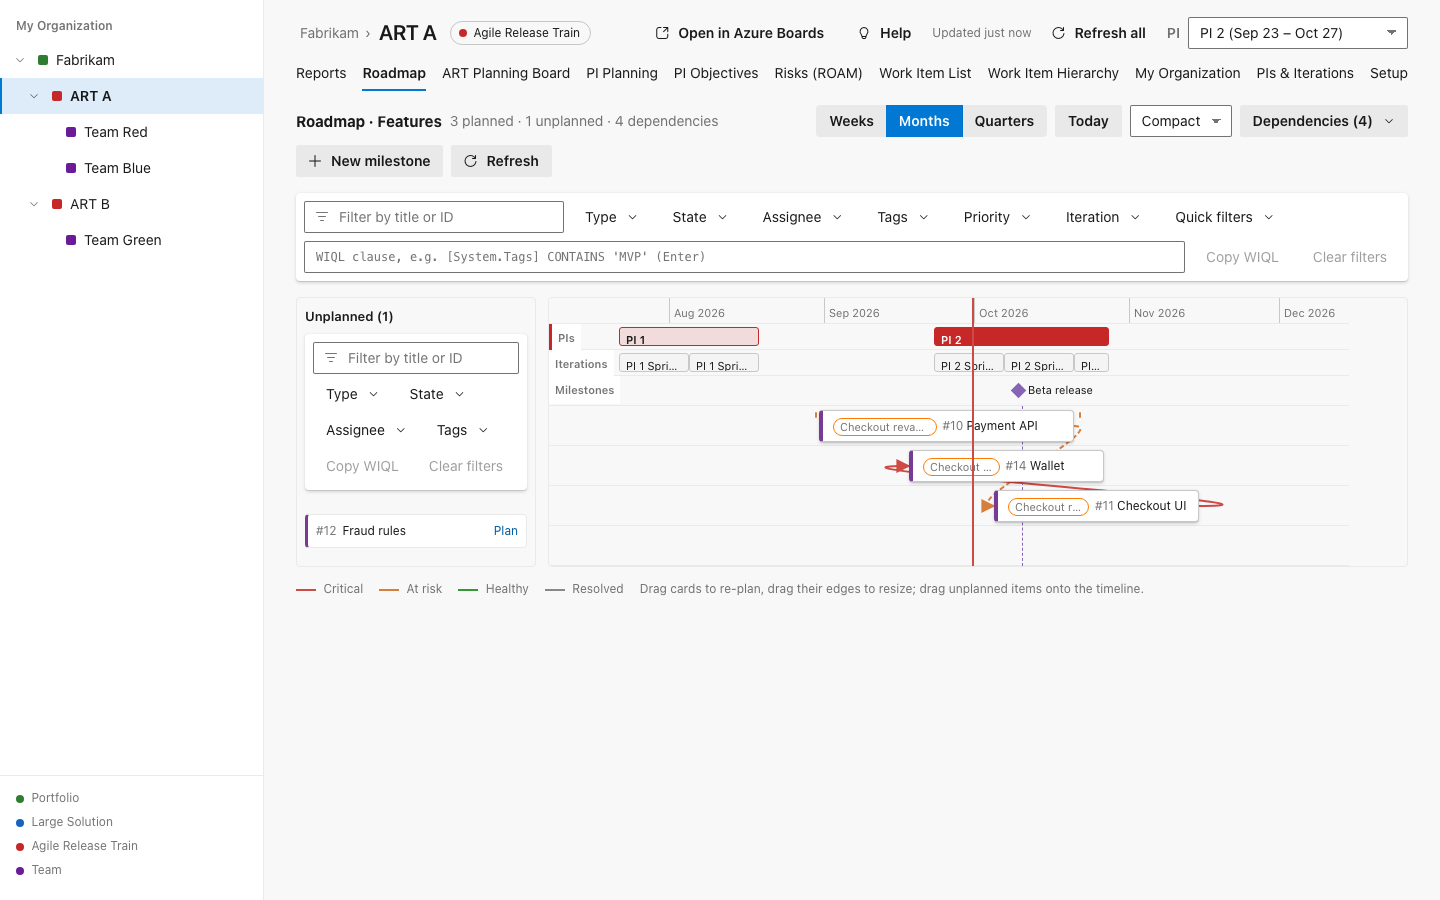
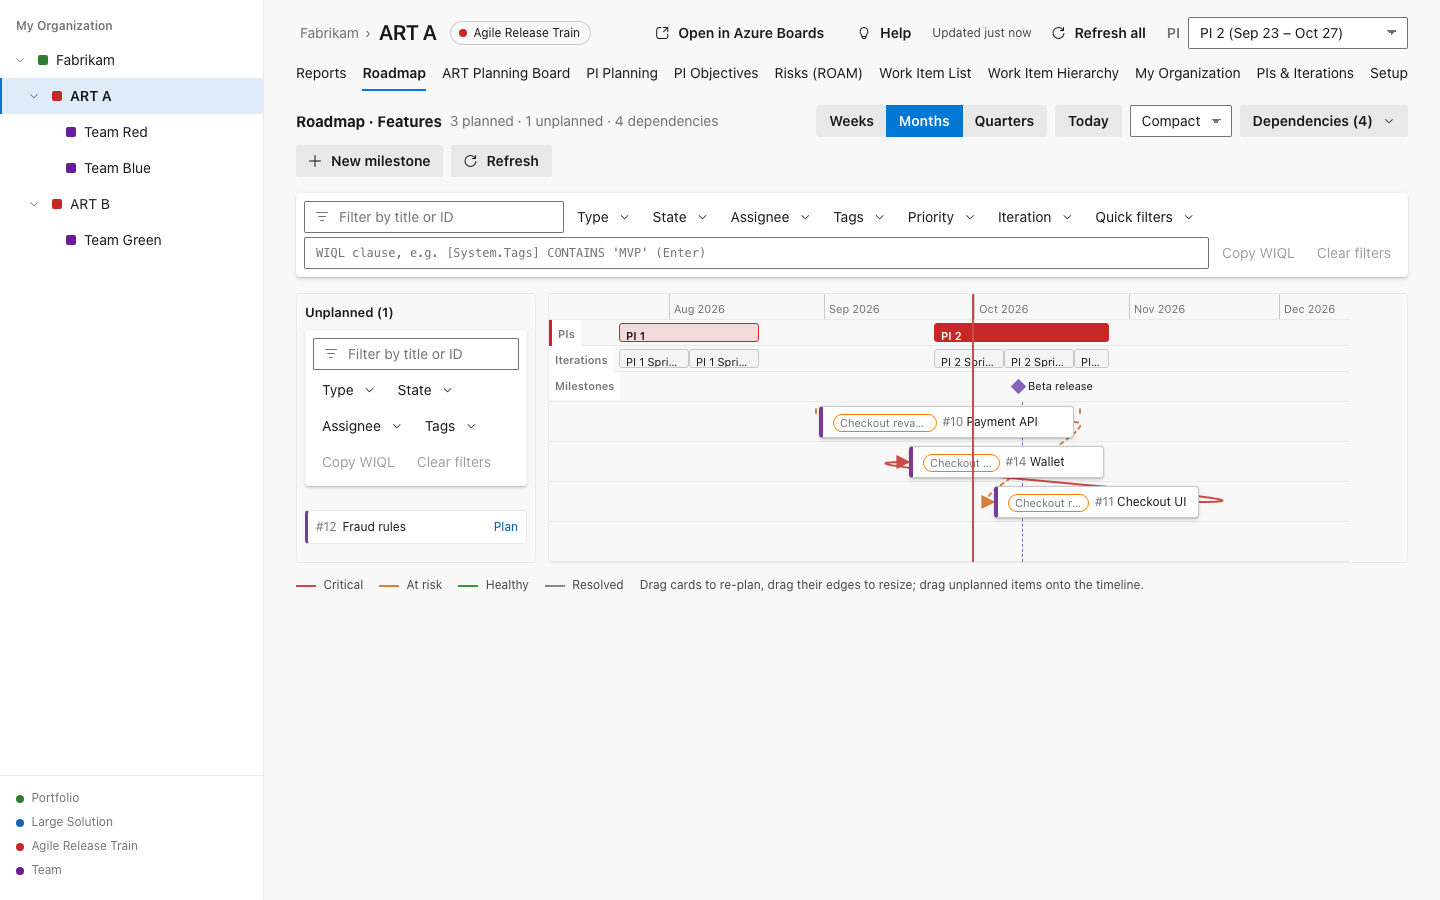
UI visibility pass: visible inline fields, readable risk tags, boards fit the PI
- Inline-edit inputs had transparent borders (Lean budgets and rates, plan review notes and
  objectives looked like plain text); they now show a quiet border.
- Exposure colours darkened to >= 4.5:1 with white text; chips read "Exposure: High" and the
  legacy field "Priority: High" so the two are no longer confused.
- Board grids share the width (min-width from the column count) instead of max-content, so the
  whole PI, IP iteration and external partners fit at 1440px.
- Cards render above dependency lines; progress labels readable; tighter filter bars; checklist
  and Create a PI padding fixes; singular "item"; refreshed Marketplace screenshots.

diff --git a/src/hub/styles.css b/src/hub/styles.css
@@ -199,7 +199,7 @@ table.grid { width: 100%; border-collapse: collapse; }
 .grid tbody tr:hover { background: var(--row-hover); }
 .grid tbody tr:last-child td { border-bottom: 0; }
 .grid.compact td { padding: 5px 12px; }
-.cell-input { width: 100%; border-color: transparent; background: transparent; }
+.cell-input { width: 100%; border-color: var(--border-strong); background: var(--bg); }
 .cell-input:hover:not(:disabled) { border-color: var(--text-2); }
 .cell-input:disabled { background: transparent; border-color: transparent; color: var(--text); }
 .cell-input.num { width: 72px; }
@@ -216,8 +216,9 @@ tr.uncommitted td:first-child input { font-style: italic; }
 .state { white-space: nowrap; display: inline-flex; align-items: center; }
 
 .progress { position: relative; height: 20px; background: var(--alpha-6); border-radius: 2px; overflow: hidden; min-width: 80px; }
-.progress-bar { position: absolute; inset: 0 auto 0 0; background: var(--good); opacity: 0.8; }
-.progress-text { position: relative; font-size: 12px; padding: 0 8px; line-height: 20px; white-space: nowrap; }
+.progress-bar { position: absolute; inset: 0 auto 0 0; background: var(--good); opacity: 0.4; }
+.progress-bar::after { content: ""; position: absolute; inset: auto 0 0 0; height: 3px; background: inherit; filter: saturate(1.4); }
+.progress-text { position: relative; font-size: 12px; font-weight: 600; padding: 0 8px; line-height: 20px; white-space: nowrap; }
 
 /* ---------- work item cards (boards) ---------- */
 .card {
@@ -237,7 +238,8 @@ tr.uncommitted td:first-child input { font-style: italic; }
 
 /* ---------- ART planning board ---------- */
 .board-scroll { overflow: auto; border-radius: var(--radius); background: var(--bg-callout); box-shadow: var(--shadow-8); }
-.board-grid { display: grid; position: relative; min-width: max-content; }
+/* Columns share the width (min-width set inline from the column count); the board scrolls only past that. */
+.board-grid { display: grid; position: relative; }
 .board-corner, .board-col-header { position: sticky; top: 0; z-index: 2; background: var(--bg-callout); border-bottom: 1px solid var(--border); }
 .board-col-header { padding: 10px 12px; font-weight: 600; border-left: 1px solid var(--border); }
 .board-col-header .muted { font-weight: 400; }
@@ -248,13 +250,14 @@ tr.uncommitted td:first-child input { font-style: italic; }
 .cell-add:hover { background: var(--alpha-10); }
 .board-cell:hover .cell-add, .cell-add:focus { opacity: 1; }
 .dep-layer { position: absolute; inset: 0; width: 100%; height: 100%; pointer-events: none; z-index: 1; overflow: visible; }
+.board-cell .card, .tb-cell .card { position: relative; z-index: 2; }
 .dep-line { fill: none; stroke-width: 2; pointer-events: stroke; cursor: pointer; }
 .dep-line:hover { stroke-width: 4; }
 .legend-bar { display: flex; gap: 16px; margin-top: 12px; flex-wrap: wrap; align-items: center; }
 .legend-bar .line { display: inline-block; width: 20px; height: 0; border-top: 2px solid; vertical-align: middle; margin-right: 4px; }
 
 /* ---------- kanban / ROAM columns ---------- */
-.kanban, .roam { display: grid; grid-auto-flow: column; grid-auto-columns: minmax(190px, 1fr); gap: 12px; overflow-x: auto; align-items: start; padding-bottom: 8px; }
+.kanban, .roam { display: grid; grid-auto-flow: column; grid-auto-columns: minmax(160px, 1fr); gap: 12px; overflow-x: auto; align-items: start; padding-bottom: 8px; }
 .kanban-col, .roam-col { background: var(--alpha-2); border: 1px solid var(--border); border-radius: var(--radius); padding: 0 8px 8px; min-height: 320px; }
 .kanban-header, .roam-header { display: flex; justify-content: space-between; align-items: center; font-weight: 600; padding: 10px 4px; border-top: 3px solid var(--border-strong); margin: 0 -8px 8px; padding-left: 12px; padding-right: 12px; border-radius: var(--radius) var(--radius) 0 0; }
 .count { color: var(--text-2); font-weight: 400; background: var(--alpha-6); border-radius: 120px; padding: 0 8px; font-size: 12px; }
@@ -324,7 +327,8 @@ tr.uncommitted td:first-child input { font-style: italic; }
 .filterbar { display: flex; gap: 8px; align-items: center; flex-wrap: wrap; margin-bottom: 16px; padding: 8px; background: var(--bg-callout); border-radius: var(--radius); box-shadow: var(--shadow); }
 .filterbar .wiql { flex: 1; min-width: 220px; font-family: Menlo, Consolas, monospace; font-size: 12px; }
 .filterbar .wiql.active { border-color: var(--accent); }
-.filterbar .btn { background: transparent; font-weight: 400; }
+.filterbar .btn { background: transparent; font-weight: 400; padding: 5px 8px; }
+.filterbar { gap: 4px; }
 .filterbar .btn:hover:not(:disabled) { background: var(--alpha-6); }
 .filterbar .btn.primary { background: var(--row-selected); color: var(--text); font-weight: 600; }
 .facet { position: relative; }
@@ -513,7 +517,7 @@ tr.uncommitted td:first-child input { font-style: italic; }
   padding: 6px 8px; cursor: default; font-size: 12px;
 }
 .card-popover ul { margin: 4px 0 0; padding-left: 16px; }
-.exposure-chip { display: inline-block; color: #fff; border-radius: 8px; padding: 0 6px; font-size: 10px; font-weight: 600; letter-spacing: 0.02em; }
+.exposure-chip { display: inline-block; color: #fff; border-radius: 8px; padding: 1px 8px; font-size: 11px; line-height: 16px; font-weight: 600; letter-spacing: 0.02em; }
 .risk-assessment { border: 1px solid var(--border); border-radius: var(--radius); padding: 8px; margin: 8px 0; }
 .risk-assessment legend { font-weight: 600; padding: 0 4px; }
 .pi-group-row th { background: var(--bg-2); text-align: left; }
@@ -621,7 +625,7 @@ tr.dep-resolved td { opacity: 0.5; }
 .tone-warn .progress-bar { background: var(--warn); }
 .tone-bad .progress-bar { background: var(--bad); }
 
-.exposure-chip { color: #fff; border-radius: 10px; padding: 0 8px; font-size: 10px; font-weight: 600; white-space: nowrap; }
+.exposure-chip { color: #fff; border-radius: 10px; padding: 1px 8px; font-size: 11px; line-height: 16px; font-weight: 600; white-space: nowrap; }
 .roam-chip { font-size: 11px; border-radius: 10px; padding: 0 8px; background: var(--bg-3); white-space: nowrap; }
 .roam-chip.roam-resolved { background: rgba(51, 153, 51, 0.18); }
 .roam-chip.roam-owned { background: rgba(0, 120, 212, 0.18); }
@@ -738,7 +742,9 @@ tr.dep-resolved td { opacity: 0.5; }
 .pi-create-result { padding-bottom: 12px; }
 .pi-iterations .actions { white-space: nowrap; }
 .setup-checklist .checklist { list-style: none; margin: 0; display: grid; gap: 6px; grid-template-columns: repeat(auto-fill, minmax(280px, 1fr)); }
-.setup-checklist .checklist li { display: flex; align-items: baseline; gap: 6px; flex-wrap: wrap; }
+.setup-checklist .checklist li { display: grid; grid-template-columns: 1em minmax(0, 1fr); column-gap: 6px; align-items: baseline; }
+.setup-checklist .checklist li > .link { text-align: left; }
+.setup-checklist .checklist li > .muted { grid-column: 2; }
 .setup-checklist .check-mark { font-weight: 700; width: 1em; }
 .setup-checklist li.ok .check-mark { color: var(--good); }
 .setup-checklist li.missing .check-mark { color: var(--bad); }
@@ -873,3 +879,11 @@ a.member-name:hover { text-decoration: underline; }
 .bv-hint, .bv-by { margin-top: 2px; }
 .import-summary { margin: 8px 0; max-width: 320px; }
 .import-mode .check { display: block; margin: 6px 0; }
+
+/* ---------- visibility pass ---------- */
+.plain-fieldset.pad { padding: 12px 20px; }
+/* Team board criticality toggles: space them and show their line colour (as in the legend). */
+.tb-deps { gap: 16px; flex-wrap: wrap; }
+.tb-deps .line { display: inline-block; width: 20px; height: 0; border-top: 2px solid; vertical-align: middle; }
+/* Small secondary text carries counts and dates: a little stronger than the host's 55% so it stays legible at 12px. */
+.muted.small { color: color-mix(in srgb, var(--text) 80%, transparent); }

diff --git a/test/views/RisksView.test.tsx b/test/views/RisksView.test.tsx
@@ -57,7 +57,7 @@ describe("ROAM board", () => {
     await renderRisks();
     const c = card("Vendor API delay");
     expect(c).toHaveClass("impact-high");
-    expect(within(c).getByText("High")).toBeInTheDocument();
+    expect(within(c).getByText("Priority: High")).toBeInTheDocument();
     expect(within(c).getByText("Team Red")).toBeInTheDocument();
     expect(within(c).getByText("· Sam")).toBeInTheDocument();
     fireEvent.click(within(c).getByRole("button", { name: "#10" }));
@@ -102,14 +102,14 @@ describe("ROAM board", () => {
     fireEvent.change(within(dialog).getByLabelText("Description"), { target: { value: "Knowledge silo" } });
     fireEvent.change(within(dialog).getByLabelText("ROAM status"), { target: { value: "Owned" } });
     fireEvent.change(within(dialog).getByLabelText("Priority"), { target: { value: "Low" } });
-    expect(within(dialog).getByTestId("exposure")).toHaveTextContent("INTERMEDIATE");
+    expect(within(dialog).getByTestId("exposure")).toHaveTextContent("Exposure: Intermediate");
     fireEvent.change(within(dialog).getByLabelText("Probability"), { target: { value: "Almost Certain" } });
-    expect(within(dialog).getByTestId("exposure")).toHaveTextContent("INTERMEDIATE");
+    expect(within(dialog).getByTestId("exposure")).toHaveTextContent("Exposure: Intermediate");
     fireEvent.change(within(dialog).getByLabelText("Impact"), { target: { value: "Catastrophic" } });
-    expect(within(dialog).getByTestId("exposure")).toHaveTextContent("EXTREME");
+    expect(within(dialog).getByTestId("exposure")).toHaveTextContent("Exposure: Extreme");
     fireEvent.change(within(dialog).getByLabelText("Residual probability"), { target: { value: "Very Unlikely" } });
     fireEvent.change(within(dialog).getByLabelText("Residual impact"), { target: { value: "Insignificant" } });
-    expect(within(dialog).getByTestId("residual-exposure")).toHaveTextContent("Residual LOW");
+    expect(within(dialog).getByTestId("residual-exposure")).toHaveTextContent("Residual: Low");
     const owner = within(dialog).getByLabelText("Raised by / belongs to") as HTMLSelectElement;
     expect(Array.from(owner.options).map((o) => o.textContent)).toEqual([
       "ART A (Agile Release Train)",
@@ -138,7 +138,7 @@ describe("ROAM board", () => {
     });
     const created = card("Key engineer leaving");
     expect(within(created).getByTitle("Exposure: EXTREME")).toHaveStyle({ background: "#8b0000" });
-    expect(within(created).getByTitle("Residual exposure: LOW")).toHaveTextContent("Residual LOW");
+    expect(within(created).getByTitle("Residual exposure: LOW")).toHaveTextContent("Residual: Low");
   });
 
   it("shows exposure chips on cards, defaulting to INTERMEDIATE when unassessed", async () => {
@@ -156,8 +156,8 @@ describe("ROAM board", () => {
     const dialog = screen.getByRole("dialog", { name: "Edit risk" });
     expect(within(dialog).getByLabelText("Probability")).toHaveValue("Likely");
     expect(within(dialog).getByLabelText("Impact")).toHaveValue("Minor");
-    expect(within(dialog).getByTestId("exposure")).toHaveTextContent("MEDIUM");
-    expect(within(dialog).getByTestId("residual-exposure")).toHaveTextContent("Residual HIGH");
+    expect(within(dialog).getByTestId("exposure")).toHaveTextContent("Exposure: Medium");
+    expect(within(dialog).getByTestId("residual-exposure")).toHaveTextContent("Residual: High");
   });
 
   it("sorts risks within columns by exposure when asked", async () => {

diff --git a/src/views/ProgramBoard.tsx b/src/views/ProgramBoard.tsx
@@ -387,7 +387,7 @@ export function ProgramBoard() {
         <div
           className="board-grid"
           ref={gridRef}
-          style={{ gridTemplateColumns: `180px repeat(${columns.length}, minmax(190px, 1fr))` }}
+          style={{ gridTemplateColumns: `180px repeat(${columns.length}, minmax(170px, 1fr))`, minWidth: 180 + columns.length * 170 }}
         >
           <div className="board-corner" />
           {columns.map((c, ci) => (
@@ -466,14 +466,14 @@ export function ProgramBoard() {
                         </button>
                         <span>{name}</span>
                       </div>
-                      <div className="muted small">{g.items.length} items</div>
+                      <div className="muted small">{g.items.length} {g.items.length === 1 ? "item" : "items"}</div>
                     </div>
                     {columns.map((col, ci) => {
                       const cellItems = g.items.filter((i) => extCol.get(i.id) === ci);
                       return (
                         <div key={col.key} role="group" aria-label={`External ${name} / ${col.title}`} className="board-cell ab-external-cell">
                           {isCollapsed
-                            ? cellItems.length > 0 && <span className="muted small">{cellItems.length} items</span>
+                            ? cellItems.length > 0 && <span className="muted small">{cellItems.length} {cellItems.length === 1 ? "item" : "items"}</span>
                             : cellItems.map((i) => (
                                 <ExternalCard
                                   key={i.id}
@@ -603,7 +603,7 @@ function RowCells(props: {
           </button>
           <span>{row.title}</span>
         </div>
-        <div className="muted small">{items.length} items</div>
+        <div className="muted small">{items.length} {items.length === 1 ? "item" : "items"}</div>
         <div className={"small" + (props.critical > 0 ? " danger" : " muted")} title="Unresolved critical dependencies involving this row">
           {props.critical} critical
         </div>
@@ -632,7 +632,7 @@ function RowCells(props: {
             }}
           >
             {collapsed
-              ? cellItems.length > 0 && <span className="muted small">{cellItems.length} items</span>
+              ? cellItems.length > 0 && <span className="muted small">{cellItems.length} {cellItems.length === 1 ? "item" : "items"}</span>
               : cellItems.map((i) => (
                   <BoardCard
                     key={i.id}

diff --git a/src/views/TeamBoard.tsx b/src/views/TeamBoard.tsx
@@ -511,7 +511,8 @@ function TeamPlanningBoard({ team, pi }: { team: OrgNode; pi: ProgramIncrement }
   const featureTitle = (id: number | undefined) => block.features.find((f) => f.id === id)?.fields[F.title] as string | undefined;
   const shownDeps = deps.filter((d) => crit.includes(d.criticality));
   const critical = deps.filter((d) => d.criticality === "critical").length;
-  const cols = `220px repeat(${pi.sprints.length}, minmax(200px, 1fr))`;
+  const cols = `220px repeat(${pi.sprints.length}, minmax(180px, 1fr))`;
+  const gridMinWidth = 220 + pi.sprints.length * 180;
   const plannedCount = block.stories.length;
   const onBoard = new Set(block.stories.map((s) => s.id));
   const hints = showDeps ? edgeHints(shownDeps, (id) => rects.has(id)) : new Map<number, EdgeHint[]>();
@@ -618,7 +619,7 @@ function TeamPlanningBoard({ team, pi }: { team: OrgNode; pi: ProgramIncrement }
           <div
             className={"board-grid tb-grid" + (dragging ? " tb-dragging" : "")}
             ref={gridRef}
-            style={{ gridTemplateColumns: cols }}
+            style={{ gridTemplateColumns: cols, minWidth: gridMinWidth }}
           >
             <div className="board-corner" />
             {pi.sprints.map((s, i) => (

diff --git a/src/views/RisksView.tsx b/src/views/RisksView.tsx
@@ -50,8 +50,8 @@ export function byExposure(a: Risk, b: Risk): number {
 function ExposureChip({ label, value }: { label: string; value: Exposure }) {
   return (
     <span className="exposure-chip" style={{ background: EXPOSURE_COLOR[value] }} title={`${label}: ${value}`}>
-      {label === "Exposure" ? "" : "Residual "}
-      {value}
+      {label === "Exposure" ? "Exposure: " : "Residual: "}
+      {value.charAt(0) + value.slice(1).toLowerCase()}
     </span>
   );
 }
@@ -174,7 +174,7 @@ export function RisksView() {
                     <ExposureChip label="Exposure" value={riskExposure(r)} />
                     <ExposureChip label="Residual exposure" value={residualExposure(r)} />
                     <span className="pill" title="Priority">
-                      {r.impact}
+                      Priority: {r.impact}
                     </span>
                     <span className="muted">{nodeName.get(r.nodeId)}</span>
                     {r.owner && <span className="muted">· {r.owner}</span>}

diff --git a/test/views/ProgramBoardV2.test.tsx b/test/views/ProgramBoardV2.test.tsx
@@ -291,7 +291,7 @@ describe("ART board — dependencies (A7)", () => {
     expect(screen.getByLabelText("Hidden consumers of #10").getAttribute("title")).toBe("Hidden consumers of #10\nHealthy: #11");
     expect(line("10-11")).toBeNull();
     fireEvent.click(screen.getByRole("button", { name: "Collapse external Team Green" }));
-    expect(within(cell("External Team Green / PI 2 IP")).getByText("1 items")).toBeInTheDocument();
+    expect(within(cell("External Team Green / PI 2 IP")).getByText("1 item")).toBeInTheDocument();
     expect(screen.getByLabelText("Hidden consumers of #10").getAttribute("title")).toBe("Hidden consumers of #10\nHealthy: #11, #20");
     fireEvent.click(screen.getByRole("button", { name: "Expand external Team Green" }));
     expect(line("10-20")).not.toBeNull();

diff --git a/test/views/ProgramBoard.test.tsx b/test/views/ProgramBoard.test.tsx
@@ -536,7 +536,7 @@ describe("ART Planning Board — calculated mode (default)", () => {
     await renderBoard();
     fireEvent.click(screen.getByRole("button", { name: "Collapse Team Blue" }));
     expect(screen.queryByText("Wallet")).toBeNull();
-    expect(within(cell("Team Blue / PI 2 Sprint 1")).getByText("1 items")).toBeInTheDocument();
+    expect(within(cell("Team Blue / PI 2 Sprint 1")).getByText("1 item")).toBeInTheDocument();
     expect(screen.getByRole("button", { name: "Expand Team Blue" })).toHaveAttribute("aria-expanded", "false");
     expect(screen.getByText("Payment API")).toBeInTheDocument();
     fireEvent.click(screen.getByRole("button", { name: "Expand Team Blue" }));

diff --git a/src/api/risk.ts b/src/api/risk.ts
@@ -30,8 +30,8 @@ export const EXPOSURE_RANK: Record<Exposure, number> = { EXTREME: 4, HIGH: 3, IN
 
 export const EXPOSURE_COLOR: Record<Exposure, string> = {
   EXTREME: "#8b0000",
-  HIGH: "#cd4a45",
-  INTERMEDIATE: "#8a8886",
-  MEDIUM: "#d67f3c",
-  LOW: "#339933",
+  HIGH: "#b52e2a",
+  INTERMEDIATE: "#605e5c",
+  MEDIUM: "#a8521d",
+  LOW: "#237a23",
 };

diff --git a/CHANGELOG.md b/CHANGELOG.md
@@ -36,6 +36,11 @@ the pushed tag, so every release needs a `## [x.y.z] - YYYY-MM-DD` heading here 
 - Writes that go only to extension data are read-only when a permission check cannot be
   answered (they used to be allowed).
 - Marketplace listing rewritten for SAFe® program offices; trademark attribution added.
+- **Visibility pass**: inline-edit fields (budgets, rates, notes, objectives) have visible borders;
+  risk exposure tags are larger, readable ("Exposure: High", "Priority: High") and meet 4.5:1
+  contrast; progress-bar labels stay readable; ART and Team Planning Boards fit the whole PI on
+  screen; Portfolio Kanban columns fit; cards sit above dependency lines; tighter filter bars;
+  Setup checklist and "Create a PI" layout fixes; "1 item" wording.
 
 ## [1.3.0] - 2026-09-30
 
